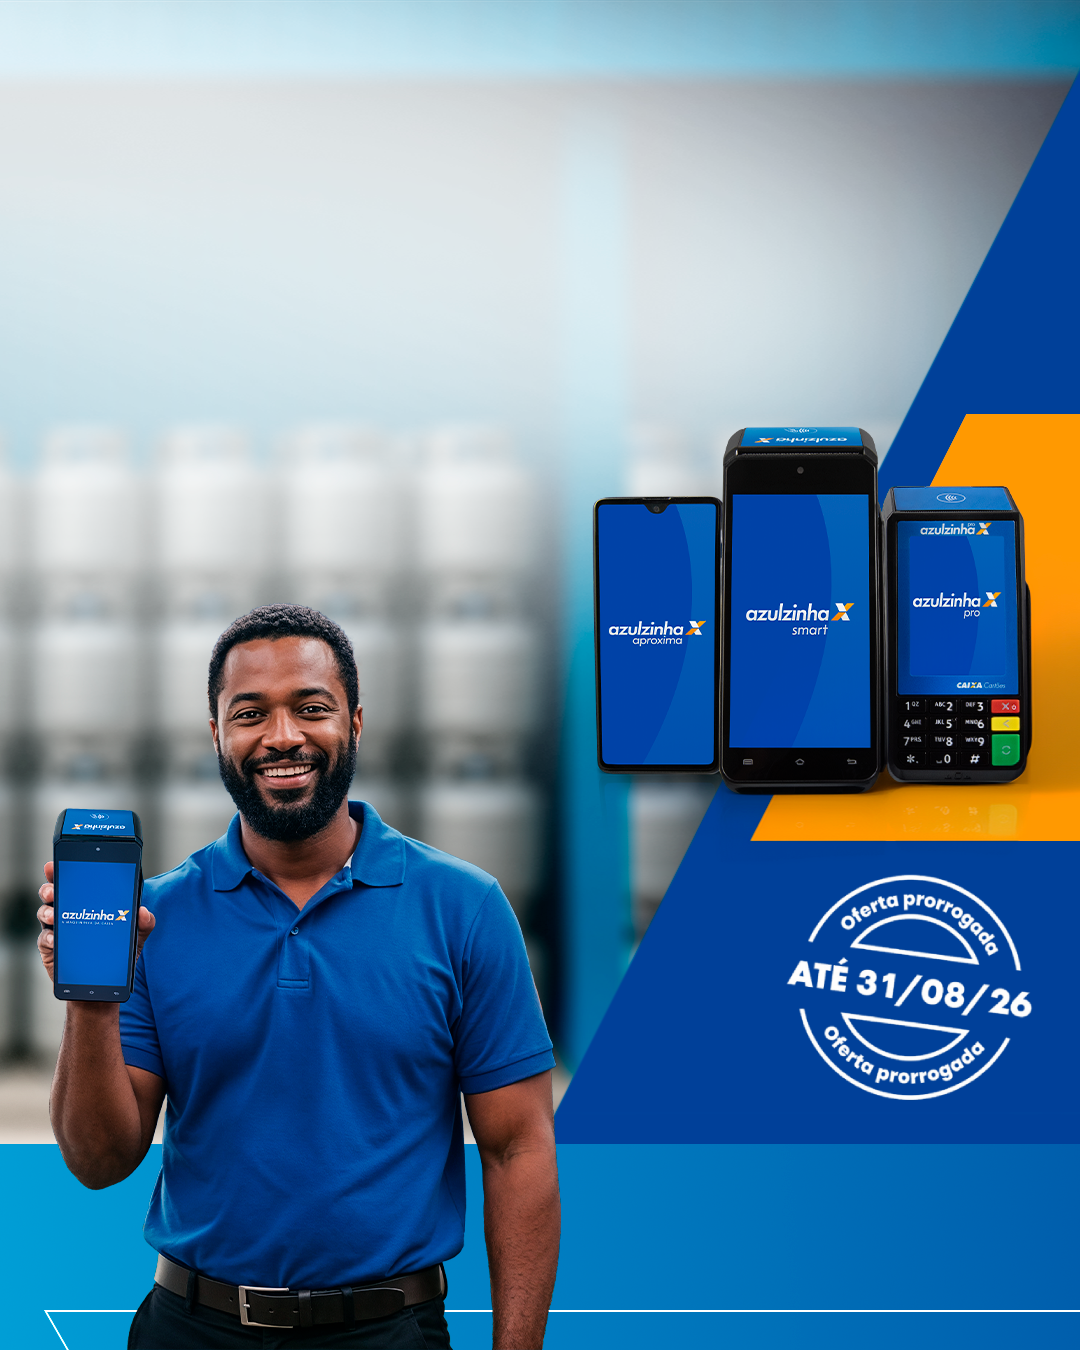
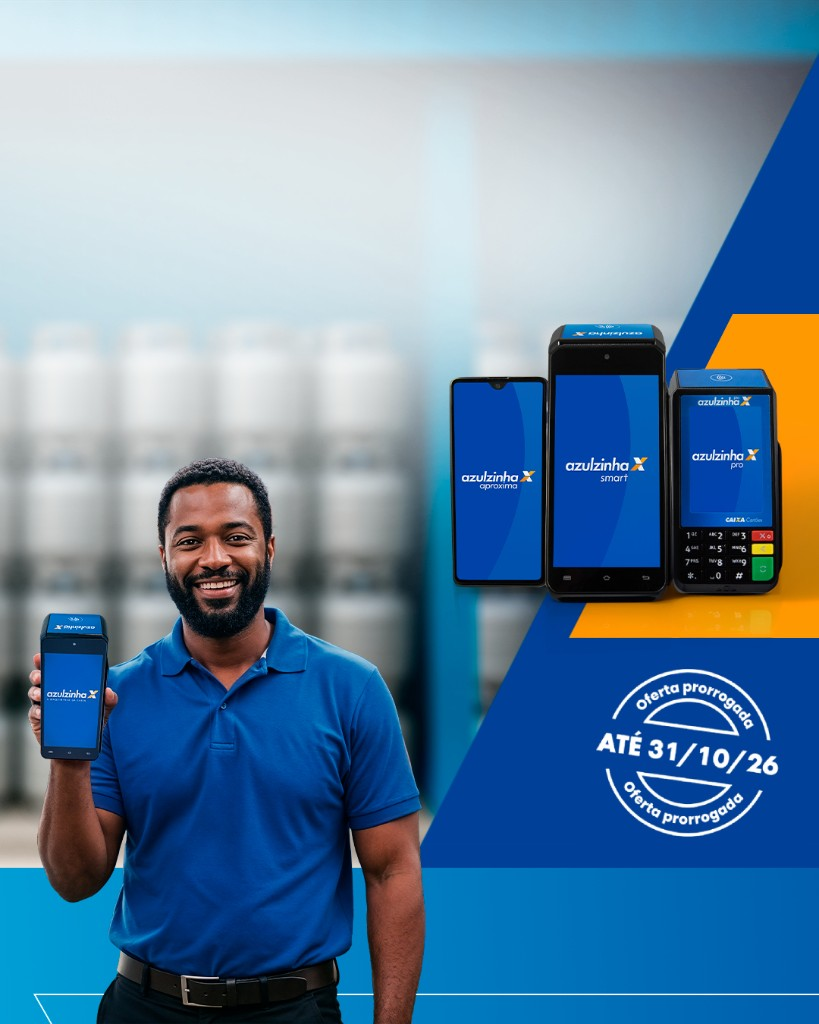
Update images for "Gás do Povo" campaign and revise rental exemption conditions in HighlightsSection for clarity and accuracy.

diff --git a/src/components/programa-gas-do-povo/HighlightsSection.tsx b/src/components/programa-gas-do-povo/HighlightsSection.tsx
@@ -73,7 +73,10 @@ export default function HighlightsSection() {
 
         {/* Disclaimer longo */}
         <p className="text-[12px] lg:text-[14px] leading-[1.5] text-[#666666] text-center max-w-[1200px] mx-auto">
-          * Condições de isenção de aluguel para clientes credenciados na campanha Gás do Povo no período de 22/10/25 a 30/06/26: Para CNAEs Principal de Revenda de Gás com Antecipação: 1 máquina Smart ou POS com 2 meses de aluguel R$0, faturamento mínimo maior ou igual a R$1.000 e Antecipação Automática. Para CNAEs Principal de Revenda de Gás Sem Antecipação: 1 máquina Smart ou POS com 2 meses de aluguel R$0, faturamento mínimo maior ou igual a R$10.000. Após os 2 meses de isenção de aluguel, será aplicada a campanha vigente para cada público/política. ** A taxa de débito e de crédito variam conforme o faturamento. Consulte as condições com seu gerente PJ Caixa.
+          * Condições de isenção de aluguel para clientes credenciados na campanha Gás do Povo no período de 22/10/25 a 31/10/26: Para CNAEs Principal de Revenda de Gás com Antecipação: 1 máquina Smart ou POS com 2 meses de aluguel R$0, para faturamento nas modalidades crédito e débito acima de R$ 1.000,00/mês com antecipação automática contratada ou acima de R$ 10.000,00/mês sem antecipação. Ofertas válidas para novos credenciamentos até 31/10/2026.
+          <br />
+          <br />
+          ** A taxa de débito e de crédito variam conforme o faturamento. Consulte as condições com seu gerente PJ Caixa.
         </p>
 
         {/* Tabela de pílulas */}
